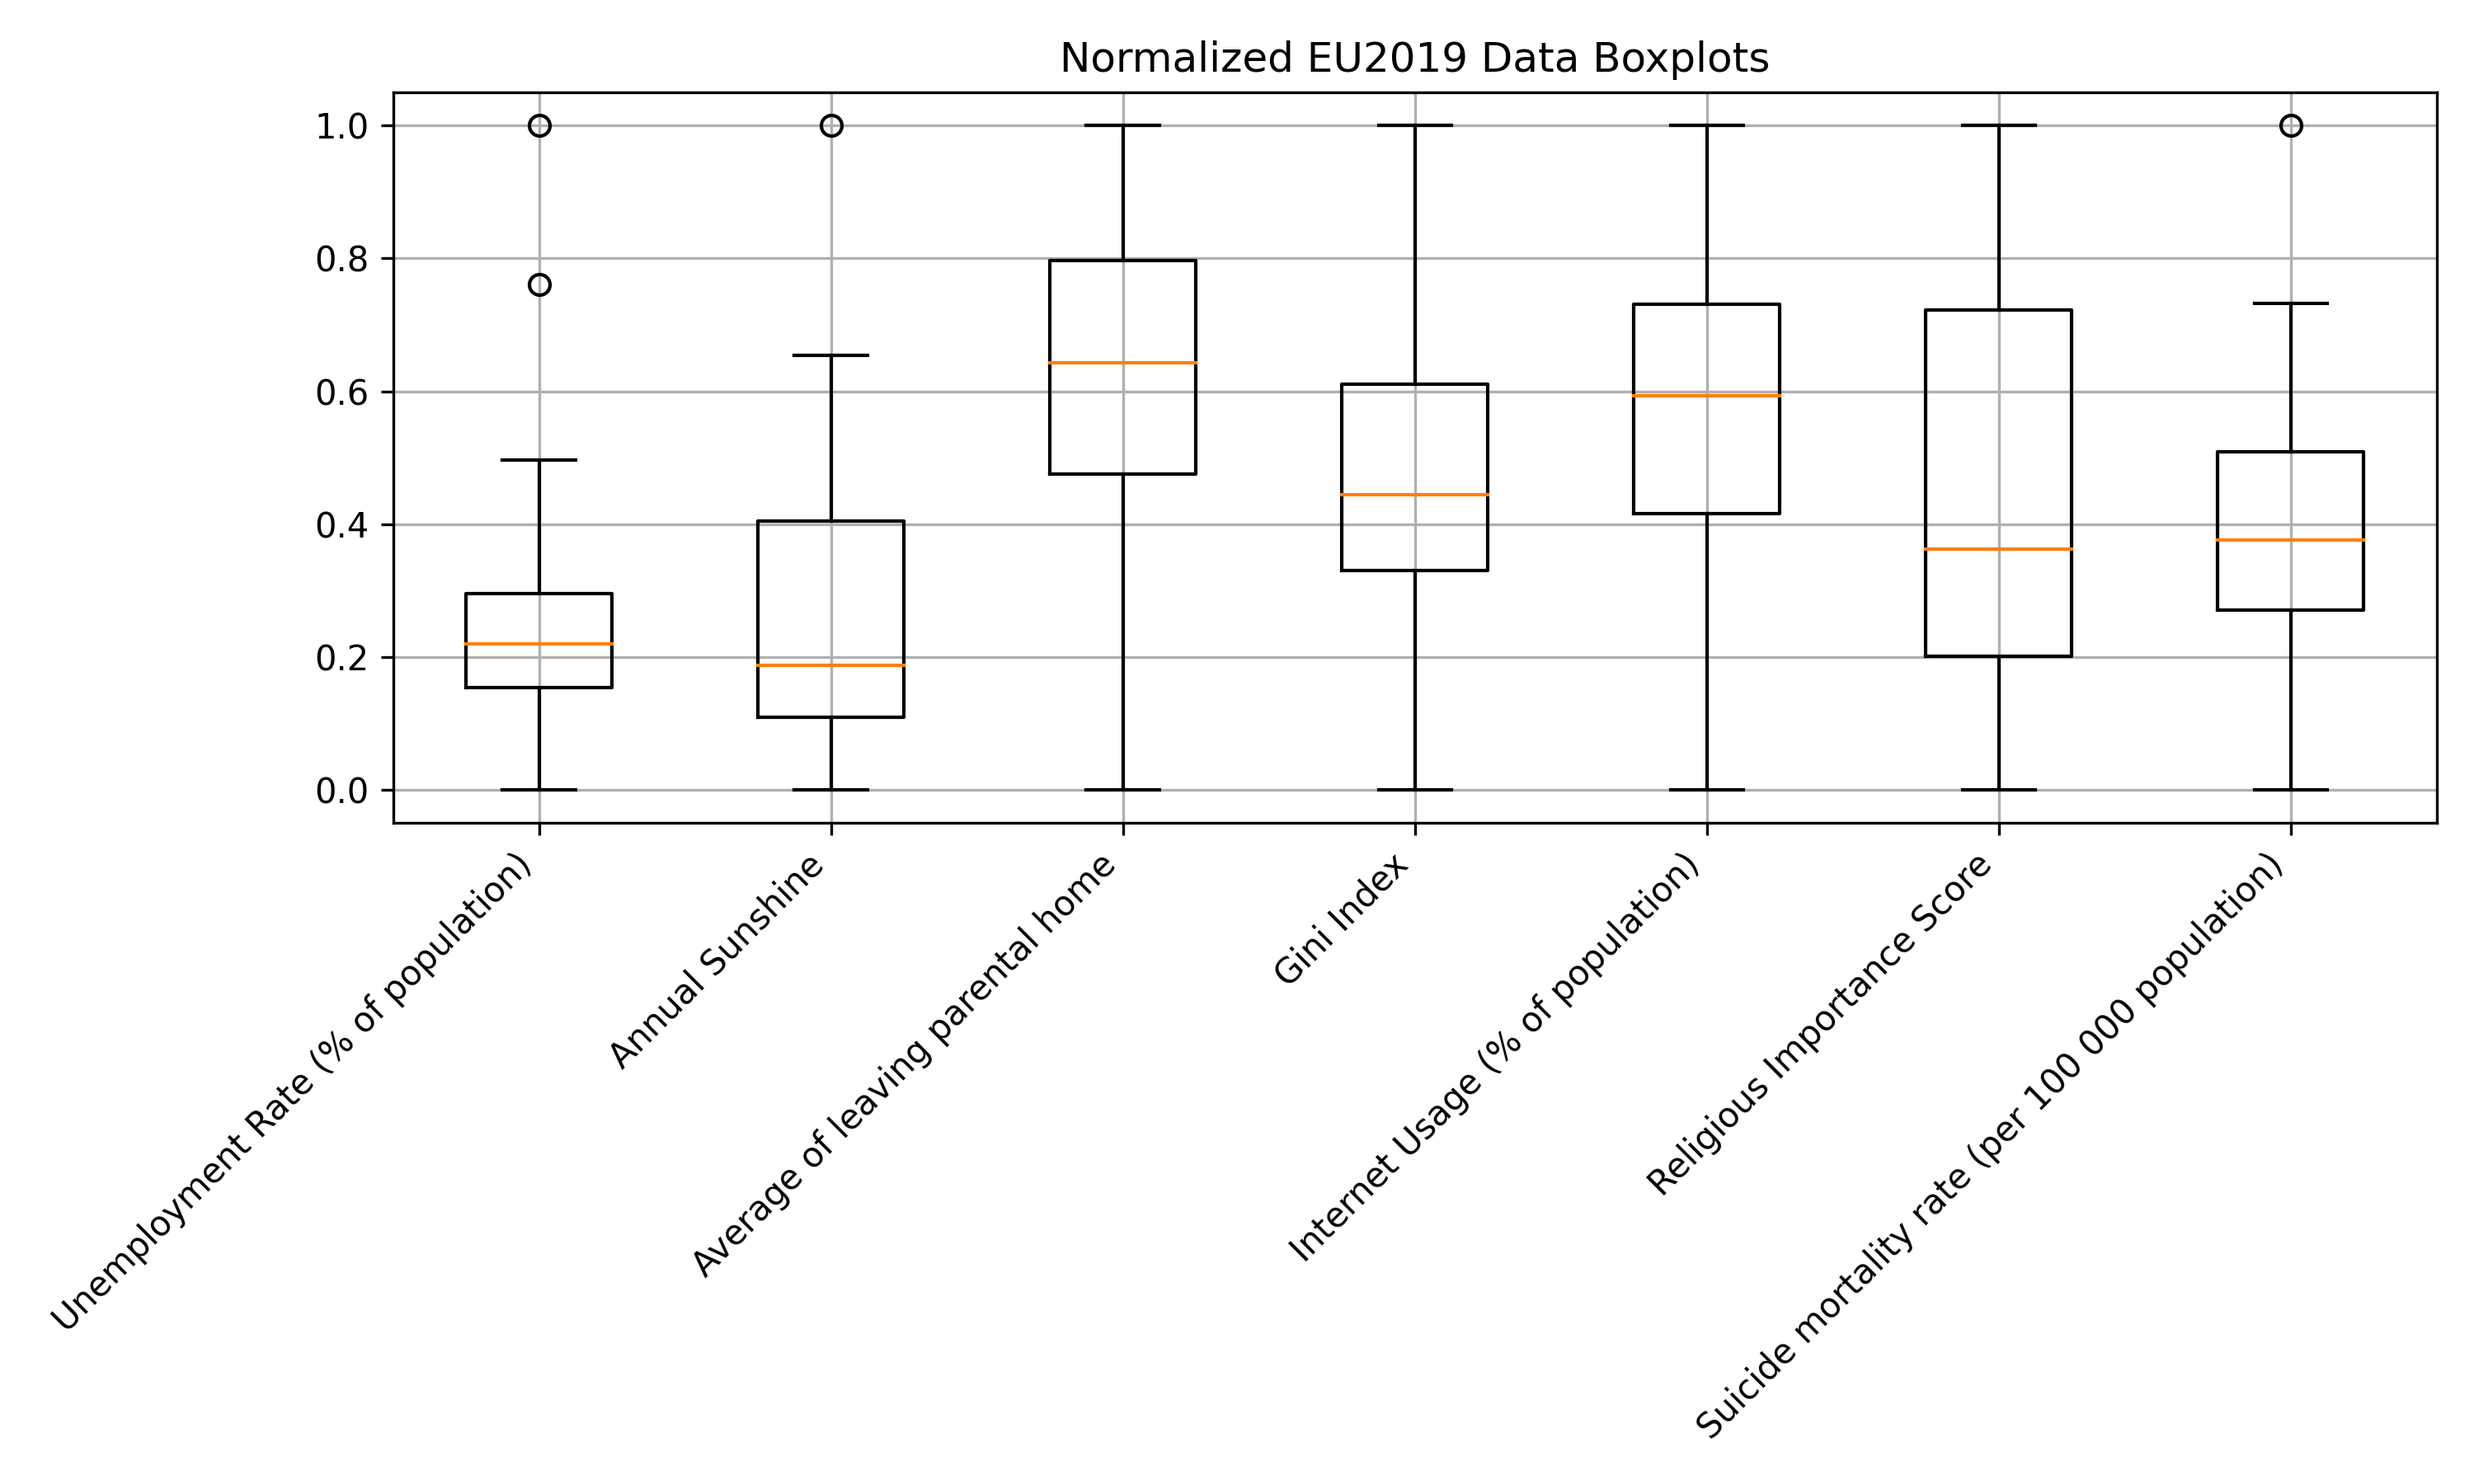
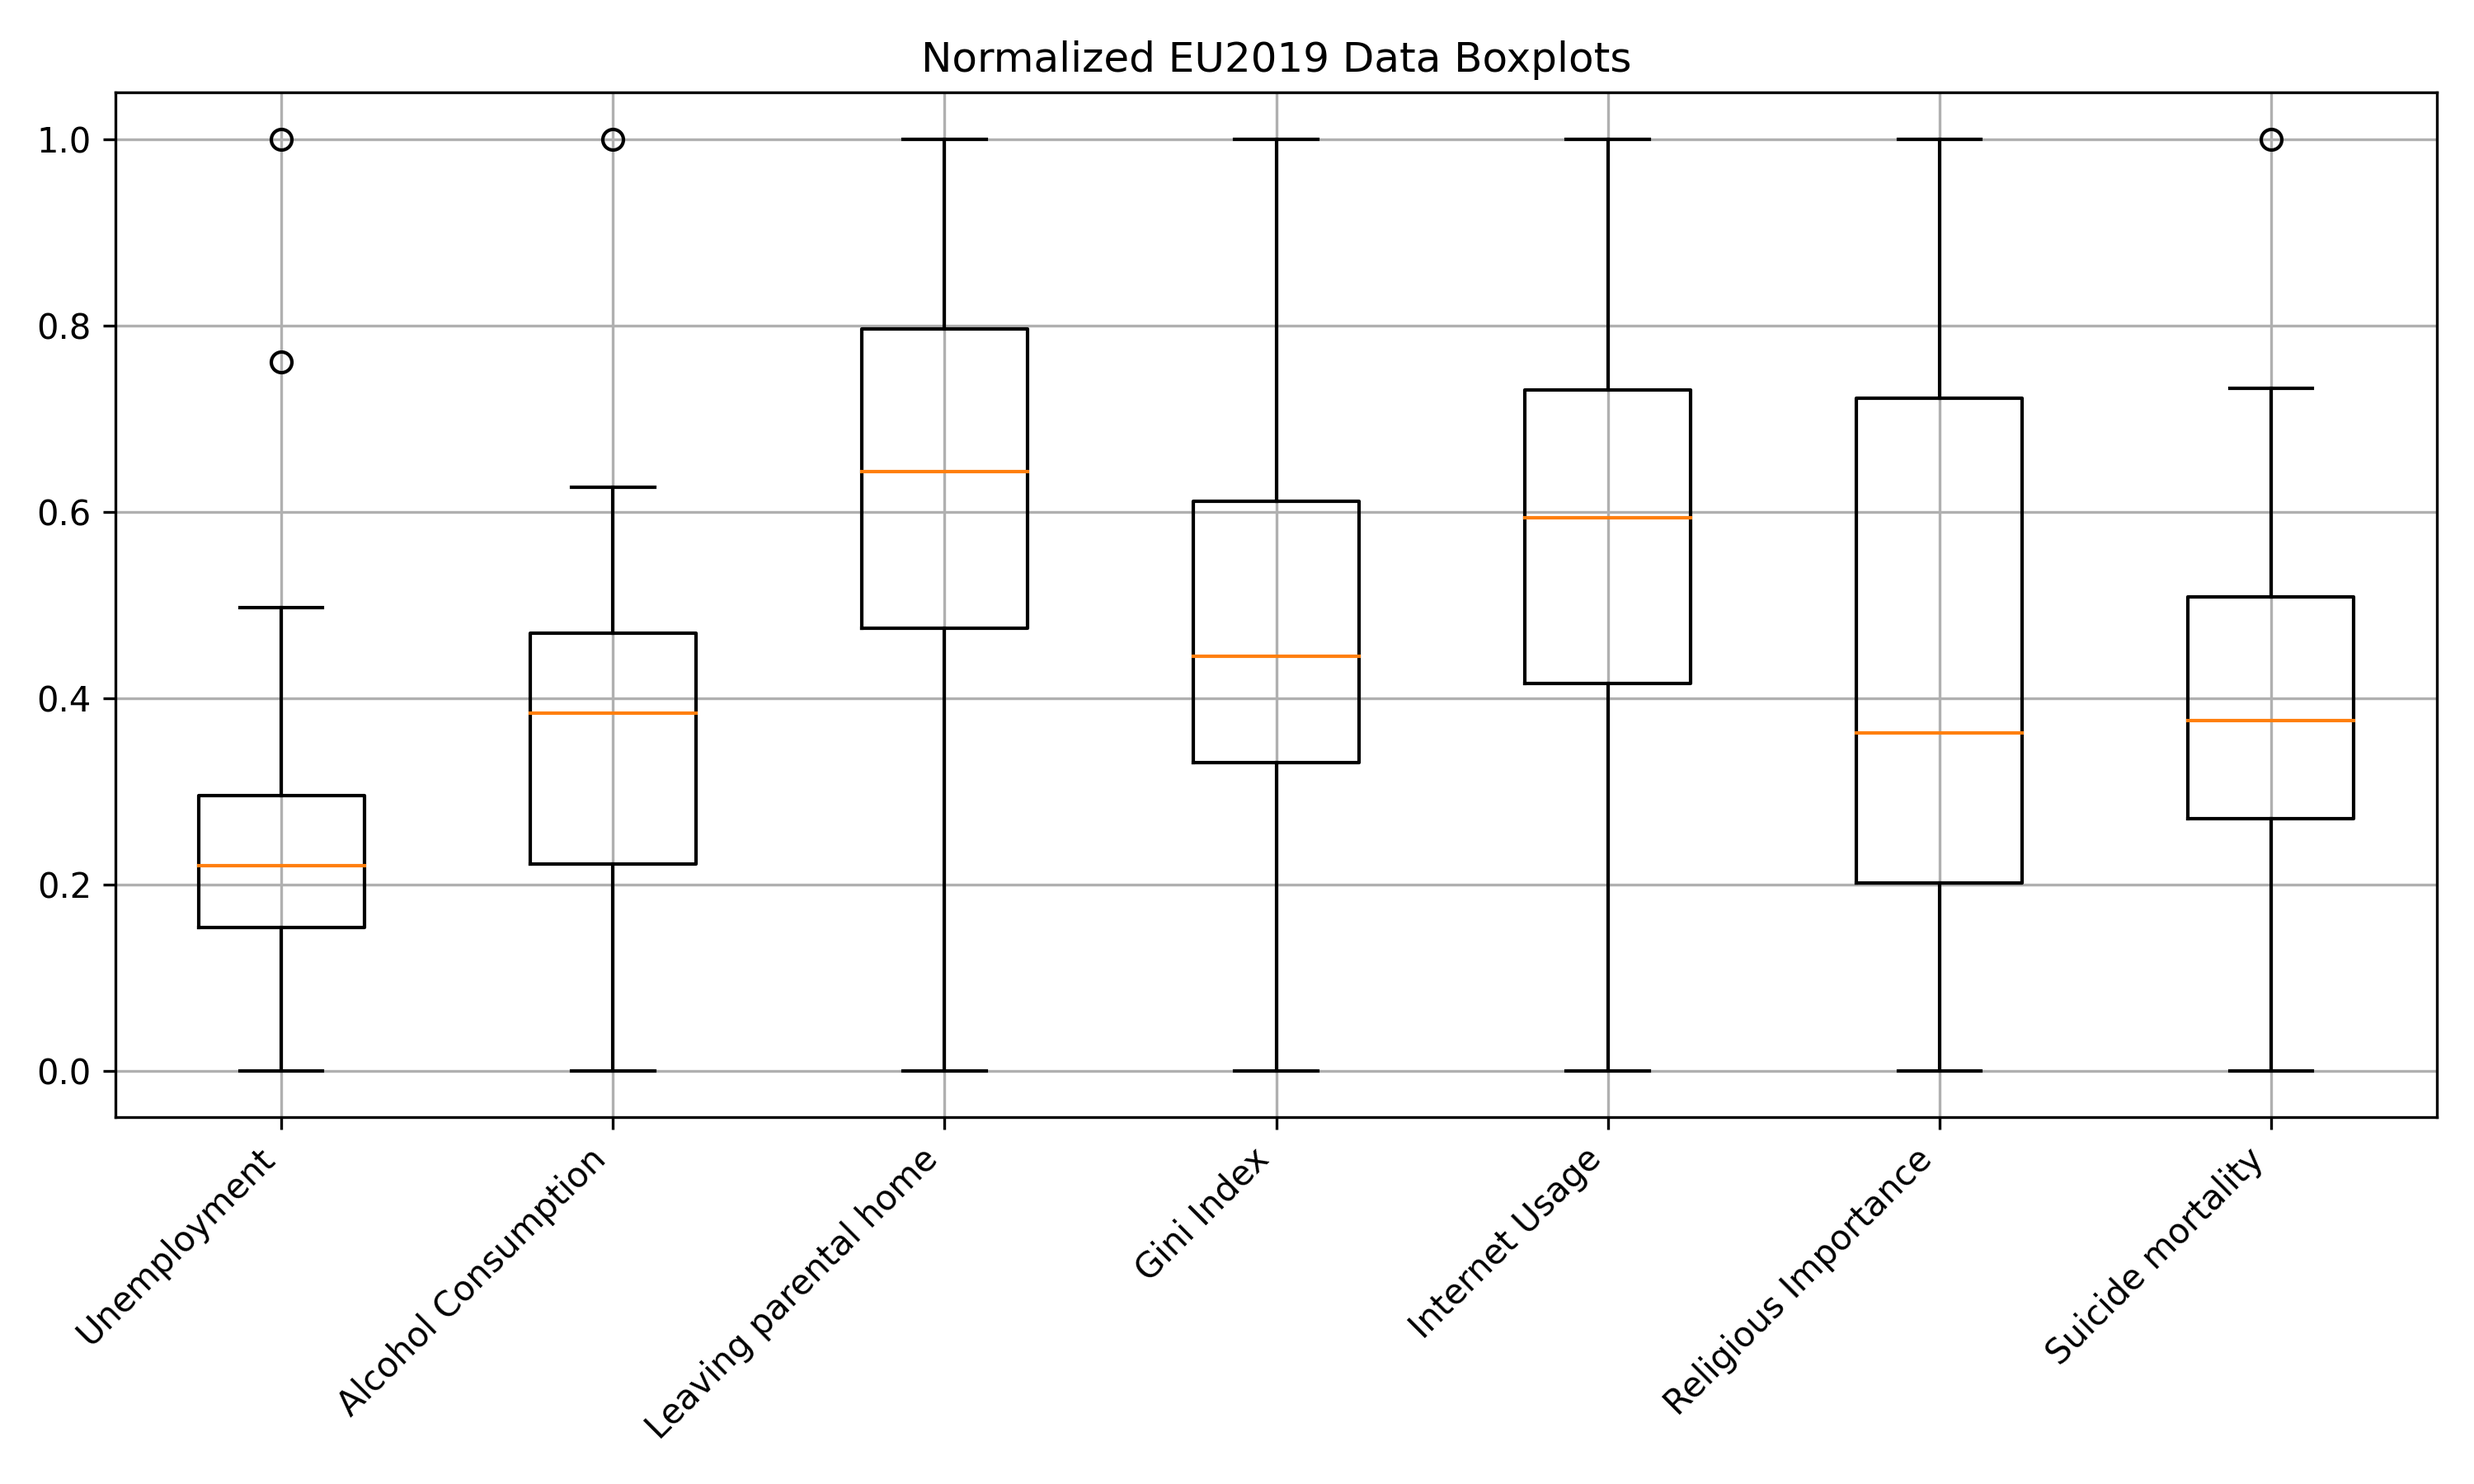
nya plots med alcohol consumption

diff --git a/data/Making plots/normalized_EU2019_data_boxplots.py b/data/Making plots/normalized_EU2019_data_boxplots.py
@@ -5,7 +5,7 @@ from sklearn.preprocessing import MinMaxScaler
 # Define the file names and the corresponding headers to extract
 files = [
     "EU2019_unemployment_rate.csv",
-    "EU2019_Annual_Sunshine.csv",
+    "EU2019_Alcohol_consumption.csv",
     "EU2019_avg_age_of_leaving_parental_home.csv",
     "EU2019_Gini_Index.csv",
     "EU2019_internet_usage.csv",
@@ -15,7 +15,9 @@ files = [
 
 # Empty lists to store the normalized data and labels
 data = []
-labels = []
+# labels = []
+labels = ['Unemployment', 'Alcohol Consumption', 'Leaving parental home', 'Gini Index', 'Internet Usage', 'Religious Importance', 'Suicide mortality']
+
 
 # Initialize the MinMaxScaler
 scaler = MinMaxScaler()
@@ -24,7 +26,7 @@ scaler = MinMaxScaler()
 for file in files:
     df = pd.read_csv(file)
     # Get the label from the second header of each file
-    labels.append(df.columns[1])
+    # labels.append(df.columns[1]) (ANVÄND DETTA FÖR AUTOMATISK LABEL SKAPANDE)
     # Extract the second column values, reshape for scaling, and normalize using MinMaxScaler
     values = df.iloc[:, 1].dropna().values.reshape(-1, 1)
     normalized_values = scaler.fit_transform(values).flatten()  # Normalize and flatten to 1D array

diff --git a/data/Making plots/EU2019_data_histograms.py b/data/Making plots/EU2019_data_histograms.py
@@ -4,7 +4,7 @@ import matplotlib.pyplot as plt
 # Define the file names and the corresponding headers to extract
 files = [
     "EU2019_unemployment_rate.csv",
-    "EU2019_Annual_Sunshine.csv",
+    "EU2019_Alcohol_consumption.csv",
     "EU2019_avg_age_of_leaving_parental_home.csv",
     "EU2019_Gini_Index.csv",
     "EU2019_internet_usage.csv",
